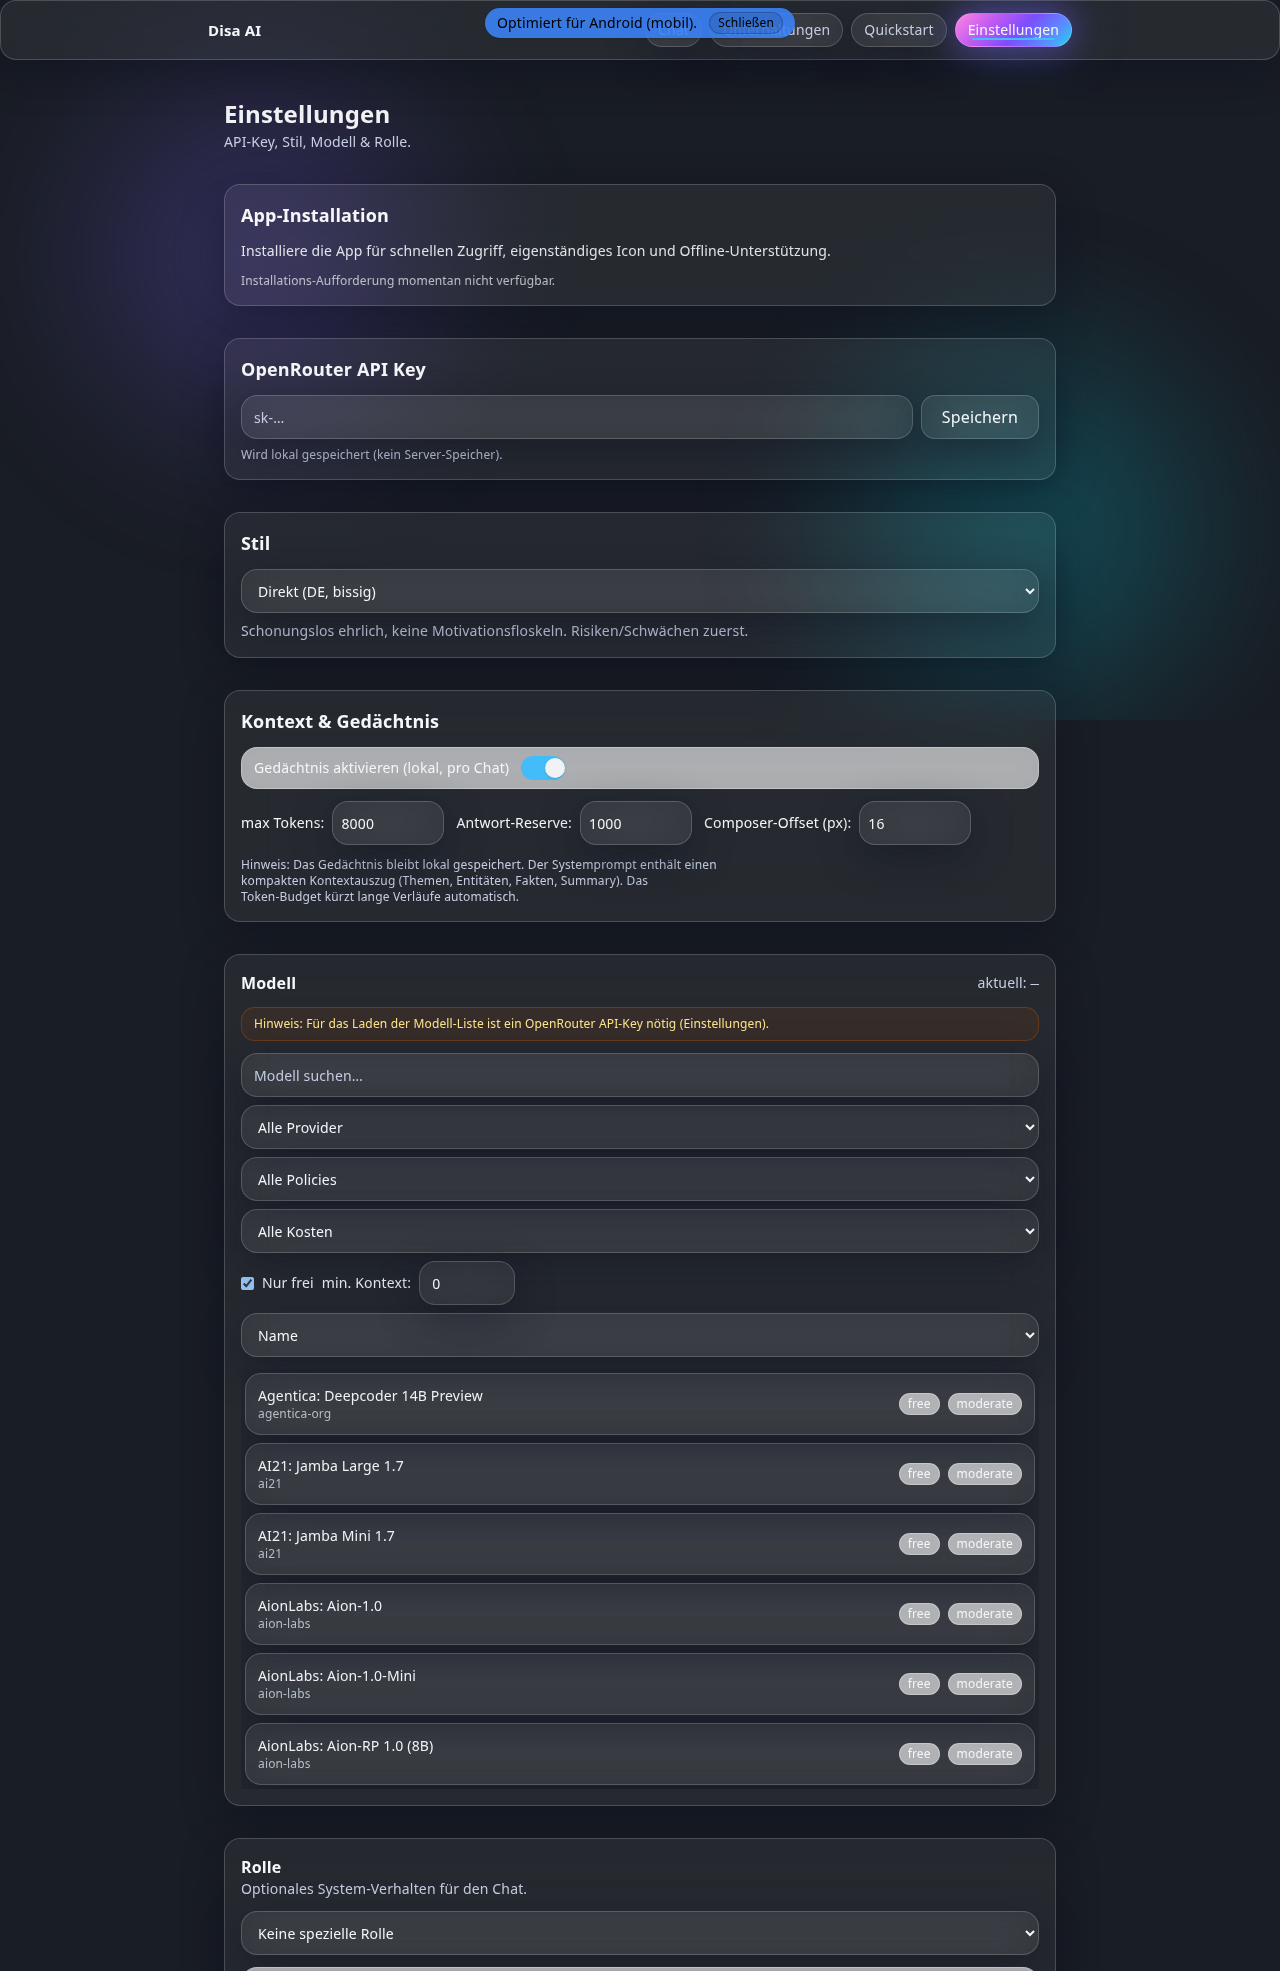
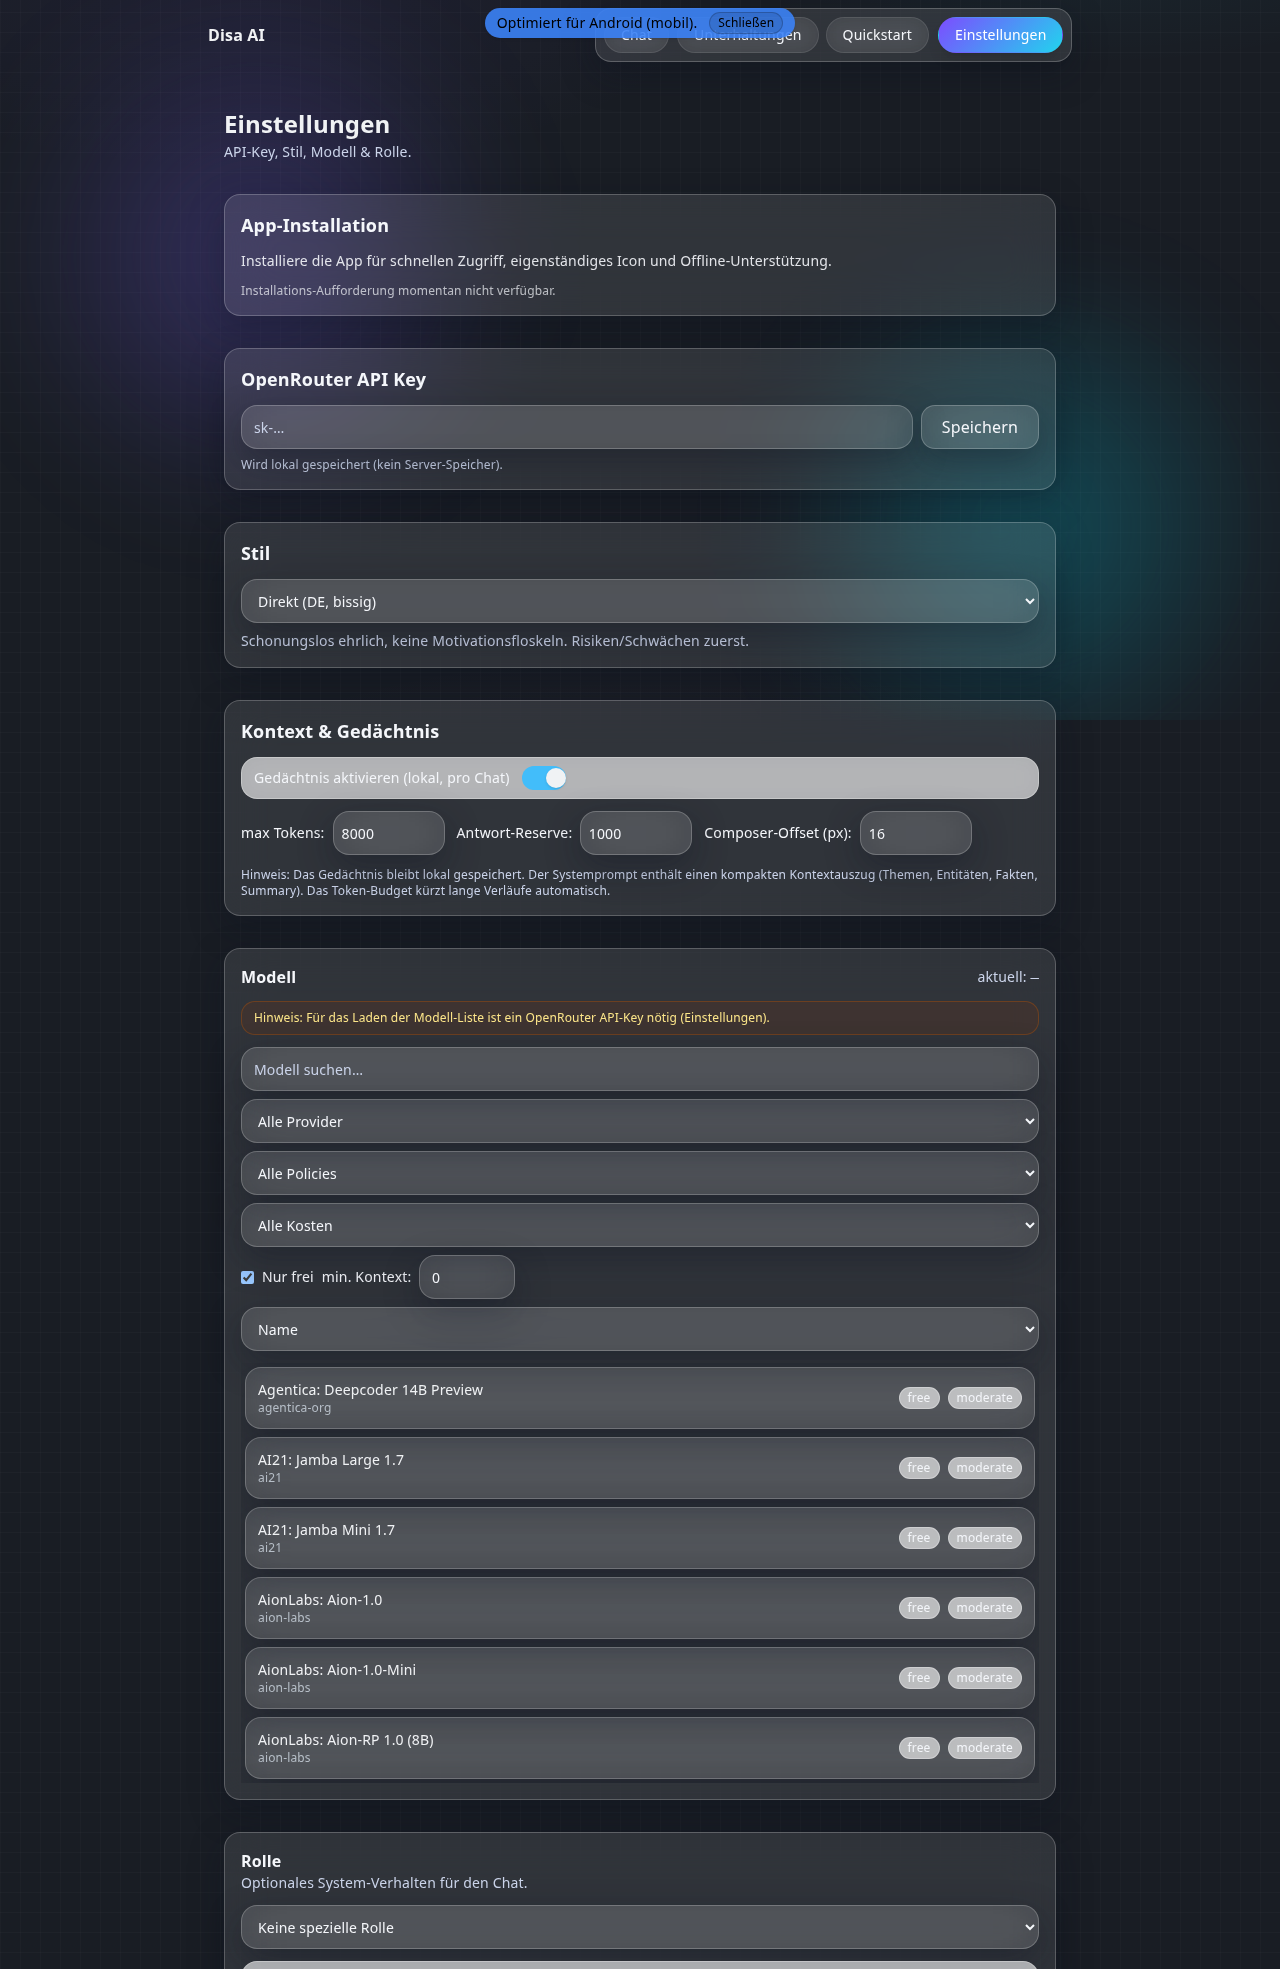
fix

Changed region(s): [[0.1562, 0.0, 0.8125, 0.8984], [0.1875, 0.9294, 0.8125, 1.0], [0.4688, 0.0, 0.875, 0.031]]

diff --git a/src/components/layout/BottomNav.tsx b/src/components/layout/BottomNav.tsx
@@ -44,7 +44,7 @@ export default function BottomNav() {
         <li>
           <button
             onClick={() => to("#/chat")}
-            className={`tap w-full rounded-xl px-3 py-2 ${is("#/chat") ? "nav-pill--active" : "nav-pill"}`}
+            className={`w-full ${is("#/chat") ? "tab--active" : "tab"}`}
             aria-current={is("#/chat") ? "page" : undefined}
             data-testid="nav-bottom-chat"
           >
@@ -54,7 +54,7 @@ export default function BottomNav() {
         <li>
           <button
             onClick={() => to("#/chats")}
-            className={`tap w-full rounded-xl px-3 py-2 ${is("#/chats") ? "nav-pill--active" : "nav-pill"}`}
+            className={`w-full ${is("#/chats") ? "tab--active" : "tab"}`}
             aria-current={is("#/chats") ? "page" : undefined}
             data-testid="nav-bottom-chats"
           >
@@ -64,7 +64,7 @@ export default function BottomNav() {
         <li>
           <button
             onClick={() => to("#/quickstart")}
-            className={`tap w-full rounded-xl px-3 py-2 ${is("#/quickstart") ? "nav-pill--active" : "nav-pill"}`}
+            className={`w-full ${is("#/quickstart") ? "tab--active" : "tab"}`}
             aria-current={is("#/quickstart") ? "page" : undefined}
             data-testid="nav-bottom-quickstart"
           >
@@ -74,7 +74,7 @@ export default function BottomNav() {
         <li>
           <button
             onClick={() => to("#/settings")}
-            className={`tap w-full rounded-xl px-3 py-2 ${is("#/settings") ? "nav-pill--active" : "nav-pill"}`}
+            className={`w-full ${is("#/settings") ? "tab--active" : "tab"}`}
             aria-current={is("#/settings") ? "page" : undefined}
             data-testid="nav-bottom-settings"
           >

diff --git a/src/components/HeaderBadges.tsx b/src/components/HeaderBadges.tsx
@@ -6,9 +6,9 @@ export default function HeaderBadges() {
   const modelId = getSelectedModelId() || "auto";
   return (
     <div className="header-sticky flex items-center gap-2">
-      <span className="header-sticky nav-pill text-xs">
+      <span className="badge">
         <span className="header-sticky mr-1 opacity-70">Modell</span>
-        <span className="header-sticky font-mono">{modelId}</span>
+        <span className="header-sticky font-mono text-[12px]">{modelId}</span>
       </span>
     </div>
   );
